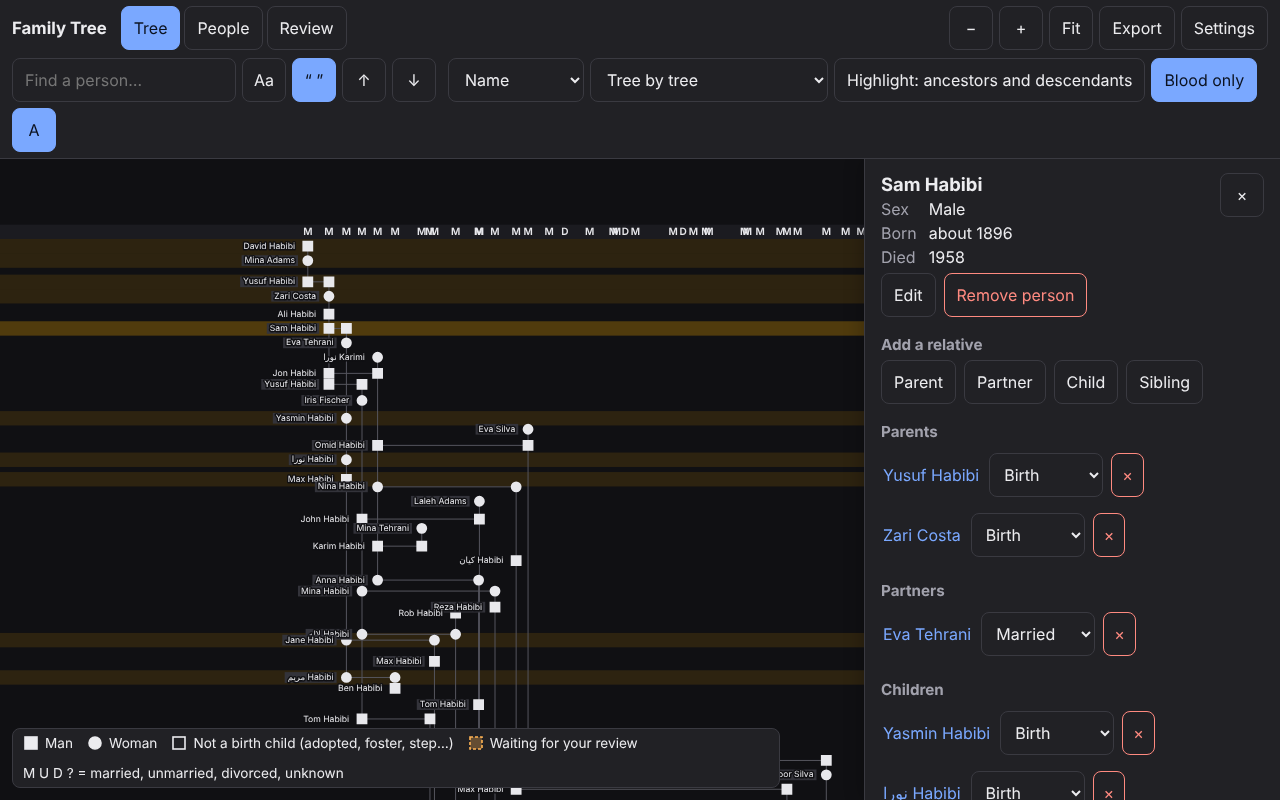
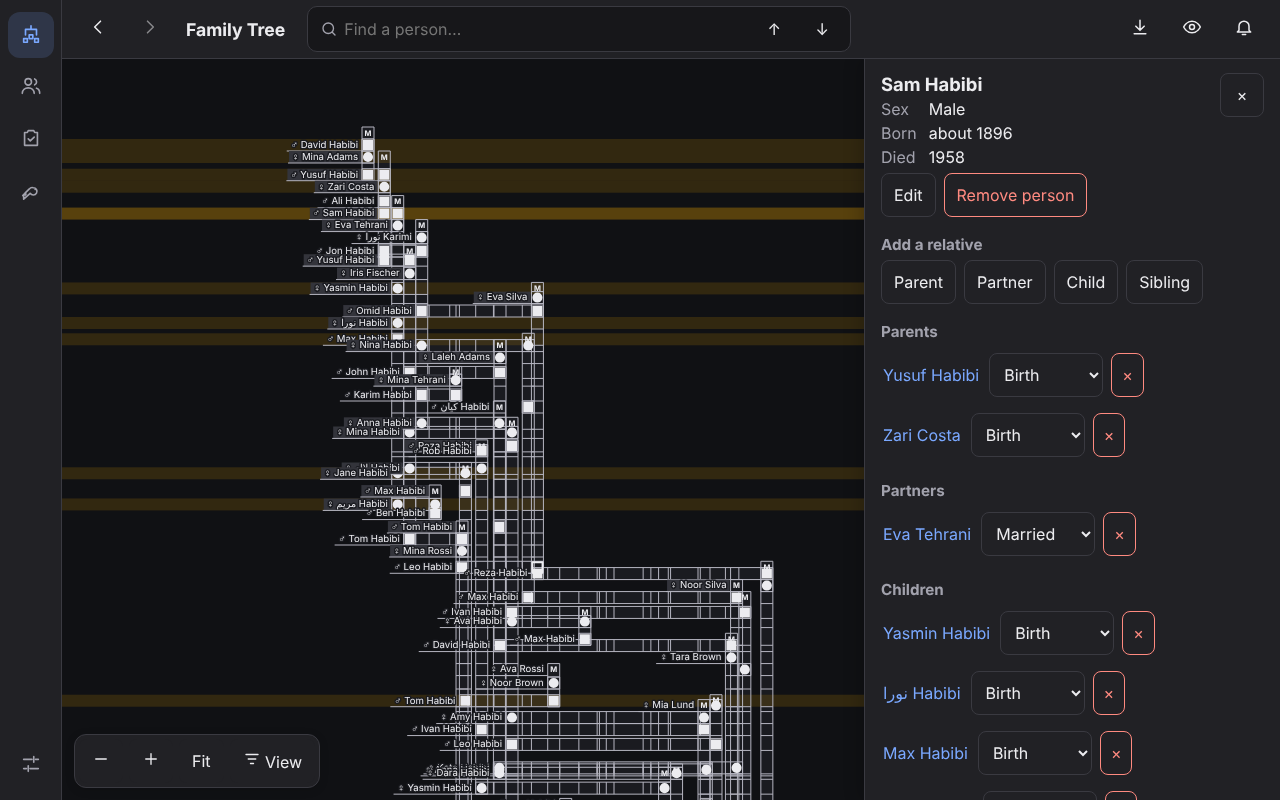
Docs: new chrome and quilt look; refresh screenshots
Claude-Session: https://claude.ai/code/session_01FpJHHx3D2XuCYf6zFqnsyW

diff --git a/docs/decisions.md b/docs/decisions.md
@@ -102,7 +102,9 @@ Phase 1 needs crates.io. Network for package installs was blocked in the Phase 0
 
 **Server additions** (all under `/api`, same guards): `GET /quilt` (+ progress, cancel), `GET/PUT /settings` (tree title, stored in the file), `GET /export/json`, `GET /export/gedcom`, `POST /import/gedcom`, `PATCH /names/{id}`; `--port` for the headless binary.
 
-**Rendering.** World units: 20 x 20 px cells, header cells above each column above row 0. Rows and columns are index-addressed, so only the visible range is visited (binary search inside a column). Shapes are batched into one path per style. Zoom levels: below ~1.2 px per column cells are skipped (only lines remain); below ~4 px they are plain blocks; labels are greeked below 8 px and hidden below 4 px. Symbols follow the mock-up: square = man, circle = woman, diamond = other/unknown; filled = parent or birth child; hollow outline = non-birth child; pending = dashed amber outline with hatching, a badge and an amber dot before the name; header letters come from the translation table (M, U, D, ?).
+**Rendering.** World units: 20 x 20 px cells, header cells above each column above row 0. Rows and columns are index-addressed, so only the visible range is visited (binary search inside a column). Shapes are batched into one path per style. Zoom levels: below ~1.2 px per column cells are skipped (only lines remain); below ~4 px they are plain blocks; labels are greeked below 8 px and hidden below 4 px. Symbols follow the mock-up: square = man, circle = woman, diamond = other/unknown; filled = parent or birth child; hollow outline = non-birth child; pending person = amber frame around the name plus a hatched marker, pending link = amber circle with a slash; each column has a header cell above its top member with the state letter from the translation table (M, U, D, ?, P = no partnership); strips are white boxed cells on a grey stage (dark variants in the tokens); names carry a ♂/♀/⚥ sign and get a grey background only when a death date is recorded.
+
+**Chrome (matches the UI2 mock-up).** Left icon rail (tree, people, review with badge, agent, settings), top bar (back/forward through selections, tree title, search with prev/next, export, privacy eye, bell), floating zoom controls with a View popover (label mode, layout mode, highlight, blood toggle, search options, outlines), minimap and legend. Review is a docked panel beside the quilt (agent and time, your words, what was understood, suggested changes with Accept ticks, warnings, approve/reject). Not done: per-item exclude/edit icons (needs partial approval in the backend).
 
 **Selection.** Click a cell or name = that person's row; click a header = that column's family; shift-click adds another selection in the next free colour (7 colours); a click on empty space clears. Selection never moves the view (tested). Highlight modes cycle (ancestors and descendants / only the selection / ancestors / descendants) with a blood-only / whole-family toggle (blood = birth links only). During the end-of-layout glide, clicks pick what is drawn, not where it is going.
 

diff --git a/README.md b/README.md
@@ -70,4 +70,4 @@ PLAYWRIGHT_PATH=$(npm root -g)/playwright node web/tests/e2e.mjs   # browser tes
 node web/tests/keys.mjs                                              # every text key exists in locales/en.json
 ```
 
-Screenshots from the browser tests are in `docs/screenshots/`.
+Screenshots from the browser tests (light, dark, pending, review panel) are in `docs/screenshots/`.
